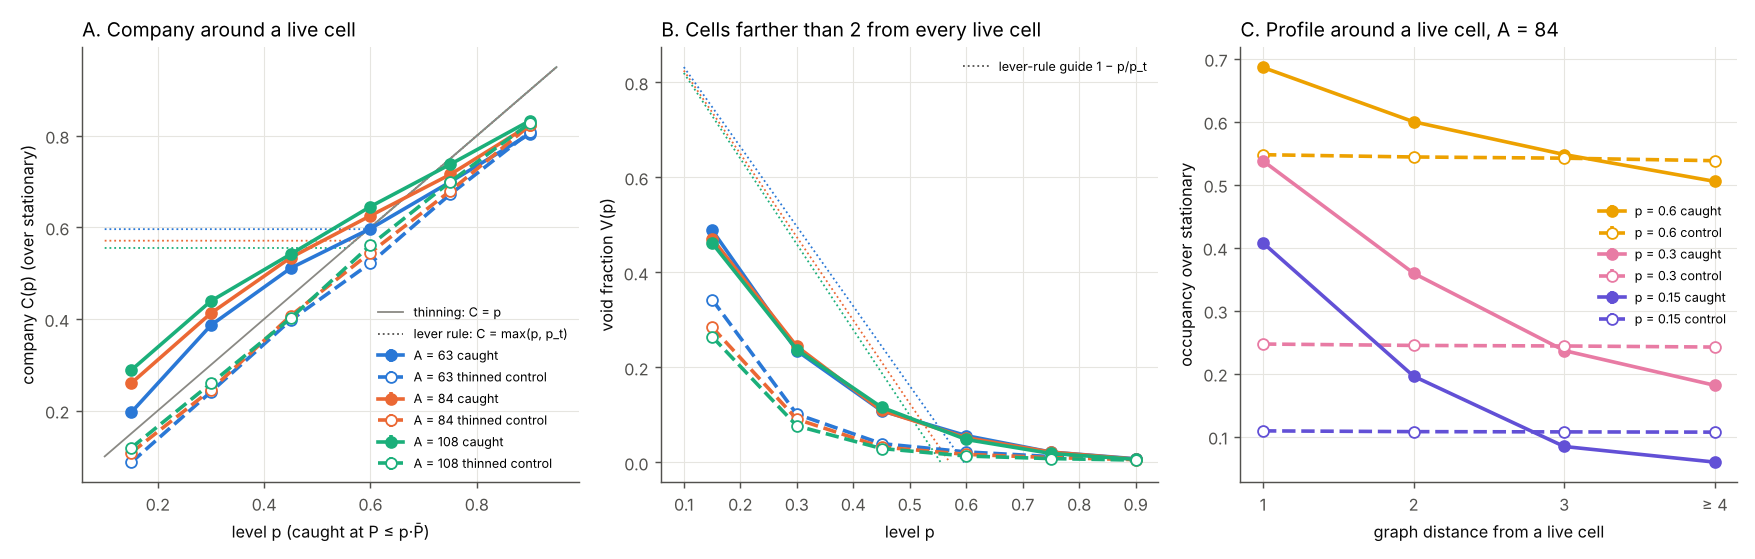
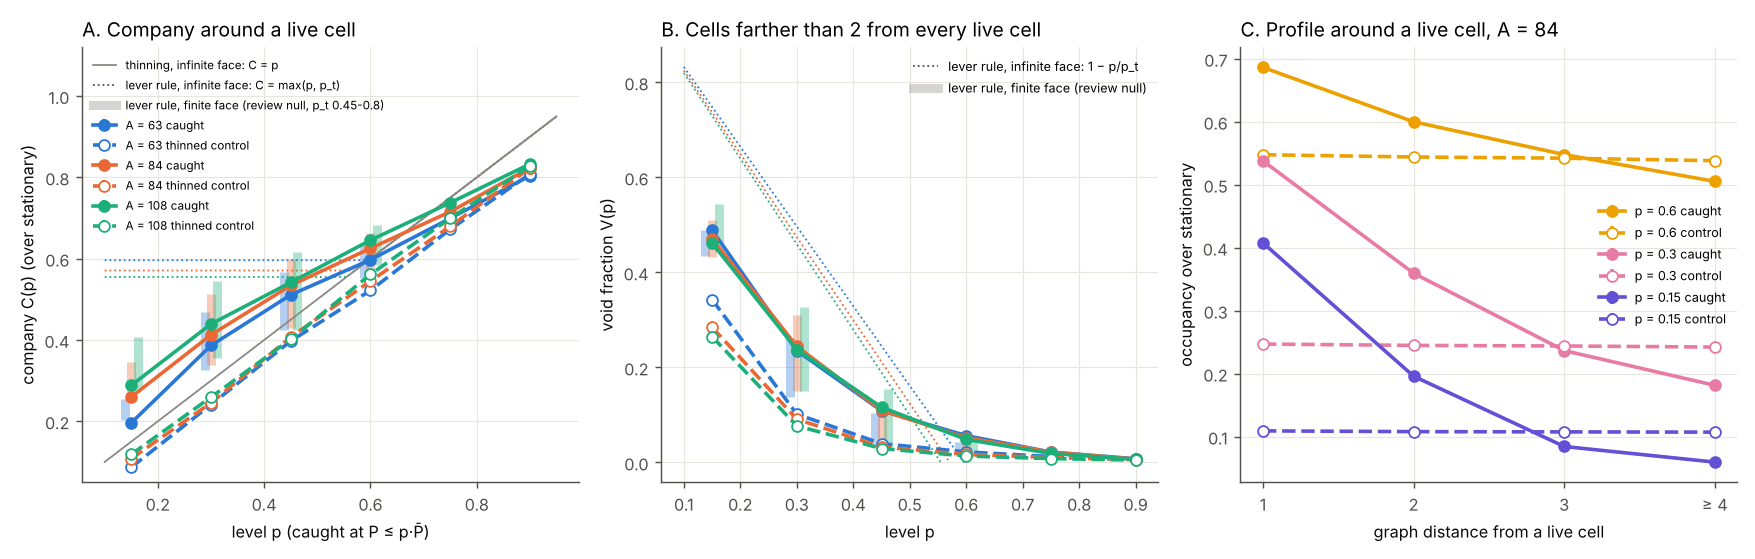
dying round 4 README and figure: apply the six corrections of the round-4 review (finite-face lever null beside the C ratios and in panels A-B, inference narrowed to 'no plateau seen; C cannot test the lever rule at A <= 108', F1/F2/F6 caveats, count-matched dies/recovers gap, size trend against the
Claude-Session: https://claude.ai/code/session_019L788JanYoS8q1kKh6fDt6

diff --git a/research/dying/round4_figure.py b/research/dying/round4_figure.py
@@ -3,10 +3,12 @@
 
     python3 research/dying/round4_figure.py
 
-A: C(p) against p, caught (filled, solid) and random-thinning control (open, dashed), per size; the two readings:
-   thinning C = p (grey diagonal) and the lever rule C = p above p_t, C = p_t below (per size, p_t from the tangent
-   construction, thin dotted). B: V(p), same marks; the lever-rule guide 1 - p/p_t below p_t (dotted; an ideal
-   remnant with no boundary layer, an upper guide only). C: the shell profile C_d (d = graph distance 1, 2, 3, >= 4)
+A: C(p) against p, caught (filled, solid) and random-thinning control (open, dashed), per size; the two readings
+   on an infinite face: thinning C = p (grey diagonal) and the lever rule C = max(p, p_t) (thin dotted, p_t from the
+   tangent construction). B: V(p), same marks; the infinite-face lever guide 1 - p/p_t (dotted).
+   Added 2026-11-15 after the review: the finite-face lever-rule null of research/audit/dying4/null_r1{1,3,5}.txt
+   (a compact patch at fixed relative density p_t, nothing outside, at the fixed count k = floor(p P-bar)), drawn as
+   a vertical bar spanning p_t = 0.45-0.8 at each level, in the size's colour, slightly offset; read only, not rerun. C: the shell profile C_d (d = graph distance 1, 2, 3, >= 4)
    at A = 84 for p = 0.6, 0.3, 0.15, caught against control.
 """
 import os, csv, collections
@@ -18,6 +20,21 @@ rows = list(csv.DictReader(open(os.path.join(D, 'r4_company.csv'))))
 tan = {int(r['A']): float(r['p_t']) for r in csv.DictReader(open(os.path.join(D, 'r4_tangent.csv')))}
 COL = {63: '#2a78d6', 84: '#eb6834', 108: '#1baf7a'}
 MINF = 200
+import re
+NULL = {}      # (A, p) -> [(C, V) for p_t = 0.45, 0.55, 0.65, 0.8]
+for A, f in ((63, 'null_r11.txt'), (84, 'null_r13.txt'), (108, 'null_r15.txt')):
+    fn = os.path.join(ROOT, 'research', 'audit', 'dying4', f); cur = None; levels = None
+    for line in open(fn):
+        if line.startswith('#'):
+            levels = [float(x) for x in re.findall(r'(0\.\d+):', line)]
+        m = re.match(r'at level\s+p ([\d.]+)', line)
+        if m: cur = float(m.group(1)); continue
+        m = re.match(r'\s+null p_t ([\d.]+): C ([\d.]+) V ([\d.]+)', line)
+        if m:
+            if cur is None or (A, cur) in NULL and len(NULL[(A, cur)]) == 4:
+                # a block without its "at level" header (A = 108, p = 0.15): the next level in order
+                cur = [q for q in levels if (A, q) not in NULL][0]
+            NULL.setdefault((A, cur), []).append((float(m.group(2)), float(m.group(3))))
 sel = collections.defaultdict(list)
 for r in rows:
     if int(r['n_faces']) >= MINF: sel[(int(r['A']), r['kind'])].append(r)
@@ -30,16 +47,24 @@ for A in (63, 84, 108):
         ax[0].errorbar(p, [float(r['C']) for r in L], [2 * float(r['C_se']) for r in L], color=COL[A], ls=ls, lw=2, marker='o', ms=6, mfc=mf,
                        label=f'A = {A}' + (' caught' if kind == 'caught' else ' thinned control'))
         ax[1].errorbar(p, [float(r['V']) for r in L], [2 * float(r['V_se']) for r in L], color=COL[A], ls=ls, lw=2, marker='o', ms=6, mfc=mf)
+    off = {63: -0.012, 84: 0.0, 108: 0.012}[A]
+    for (AA, p), L in NULL.items():
+        if AA != A: continue
+        cs = [c for c, v in L]; vs = [v for c, v in L]
+        ax[0].plot([p + off] * 2, [min(cs), max(cs)], color=COL[A], lw=5, alpha=0.35, solid_capstyle='butt')
+        ax[1].plot([p + off] * 2, [min(vs), max(vs)], color=COL[A], lw=5, alpha=0.35, solid_capstyle='butt')
     pt = tan[A]
     ax[0].plot([0.1, pt, 0.95], [pt, pt, 0.95], color=COL[A], lw=1, ls=':')
     ax[1].plot([0.1, pt], [1 - 0.1 / pt, 0], color=COL[A], lw=1, ls=':')
-ax[0].plot([0.1, 0.95], [0.1, 0.95], color='#8a8984', lw=1, label='thinning: C = p')
-ax[0].plot([], [], color='#52514e', lw=1, ls=':', label='lever rule: C = max(p, p_t)')
+ax[0].plot([0.1, 0.95], [0.1, 0.95], color='#8a8984', lw=1, label='thinning, infinite face: C = p')
+ax[0].plot([], [], color='#52514e', lw=1, ls=':', label='lever rule, infinite face: C = max(p, p_t)')
+ax[0].plot([], [], color='#8a8984', lw=5, alpha=0.35, label='lever rule, finite face (review null, p_t 0.45-0.8)')
 ax[0].set_xlabel('level p (caught at P ≤ p·P̄)'); ax[0].set_ylabel('company C(p) (over stationary)')
-ax[0].set_title('A. Company around a live cell', loc='left'); ax[0].legend(fontsize=7, frameon=False)
+ax[0].set_title('A. Company around a live cell', loc='left'); ax[0].legend(fontsize=6.5, frameon=False, loc='upper left'); ax[0].set_ylim(0.05, 1.12)
 ax[1].set_xlabel('level p'); ax[1].set_ylabel('void fraction V(p)')
 ax[1].set_title('B. Cells farther than 2 from every live cell', loc='left')
-ax[1].plot([], [], color='#52514e', lw=1, ls=':', label='lever-rule guide 1 − p/p_t'); ax[1].legend(fontsize=7, frameon=False)
+ax[1].plot([], [], color='#52514e', lw=1, ls=':', label='lever rule, infinite face: 1 − p/p_t')
+ax[1].plot([], [], color='#8a8984', lw=5, alpha=0.35, label='lever rule, finite face (review null)'); ax[1].legend(fontsize=7, frameon=False)
 sh = ['C_d1', 'C_d2', 'C_d3', 'C_d4p']
 for p, c in ((0.6, '#eda100'), (0.3, '#e87ba4'), (0.15, '#6250d6')):
     for kind, ls, mf in (('caught', '-', c), ('control', '--', 'white')):
@@ -55,3 +80,4 @@ for a in ax:
     a.grid(color='#e6e5e0', lw=0.6); a.spines['top'].set_visible(False); a.spines['right'].set_visible(False)
 fig.tight_layout()
 out = os.path.join(ROOT, 'research', 'figures', 'dying_two_phase.png'); fig.savefig(out, dpi=130); print(out)
+if os.environ.get("SHOWNULL"): [print(k, v) for k, v in sorted(NULL.items())]

diff --git a/research/dying/README.md b/research/dying/README.md
@@ -637,40 +637,97 @@ committed with `ex4.c`, `validate4.py` and `round4.sh` before any production run
 `research/figures/dying_two_phase.png`. Tables: `data/r4_company.csv` (every level, size and set: caught, control,
 bottom, dies, recovers), `data/r4_tangent.csv`, `data/r4_stationary.csv`, `data/r4_percell.csv`, `data/r4_by_k.csv`.
 
+## Reviewed (2026-11-15)
+
+The round-4 part of `research/audit/REVIEW-dying.md` reran the measurement with its own stepper
+(`research/audit/dying4/st4.c`, matched to `reference/oracle.py` at every generation) on fresh seeds 5101, 5103,
+5105, and built a **finite-face lever-rule null**: a compact patch (a graph ball grown until its stationary mass is
+k/p_t) filled from a stationary face and thinned to exactly k, nothing outside (`research/audit/dying4/null.py` →
+`null_r11.txt`, `null_r13.txt`, `null_r15.txt`). Command: `bash research/audit/dying4/run.sh` (one core, ~20 min).
+Every number of this round reproduces within its errors; the tangent arithmetic and the control stand. Ledger:
+CLAIMS DY13–DY15.
+
+**What the review changed, applied below** (marked "corrected 2026-11-15" where they fall):
+1. **C cannot test the lever rule on faces this small.** An exact lever-rule remnant at any p_t in 0.45–0.8 gives
+   C(0.15)/C(0.45) = 0.45–0.48 (A = 63), 0.58–0.61 (84), 0.65–0.69 (108), not ≈ 1: at 4–8 live cells the patch is
+   about the size of the radius-2 ball in which C is counted, so its live cells see the emptied face and C falls with
+   depth for a fixed-density remnant too. F1's "against" clause is met by a lever rule itself at 63 and 84 cells.
+   "Not a void beside a remnant held at fixed density" is withdrawn as a conclusion from C; what stands is "no
+   plateau at fixed density is seen". What does separate the caught faces from the null: their ratio lies
+   0.07–0.14 below it, and their profile is more peaked (higher at distance 1, with a tail into the far face).
+2. **The figure's guides** C = max(p, p_t) and V = 1 − p/p_t are infinite-face idealisations, now labelled so; the
+   review's finite-face null is drawn beside them in panels A and B (pale bars spanning p_t = 0.45–0.8, read from
+   `null_r1{1,3,5}.txt`, at the fixed count k = ⌊pP̄⌋ rather than the caught faces' counts). The caught C lies inside
+   or just below the bars; the caught V lies inside them. The null's V at p = 0.15 is 0.43–0.54, not the guide's
+   0.73–0.81.
+3. **F2 and F6.** A remnant at p_t does not read C = p_t at these counts, so F2's failure says nothing about the
+   remnant's density; F6 rested on an F1 clause that a lever rule also meets. Scores unchanged, caveats added.
+4. **Dies against recovers** is mostly count: matched, the gap is 0.021 ± 0.001 (p = 0.15) and 0.017 ± 0.003
+   (p = 0.3) at A = 63.
+5. **The size trend** of the ratio is to be read against the null's own rise, not against 1.
+6. **How a face is caught matters:** faces at first passage are looser than faces taken at a random moment with the
+   same count, by 0.03–0.04 in C at A = 63.
+
 ## Short answer
 
-- **[measured] A deeply depleted face is one thing that thins, with strong short-range clustering; it is not a void
-  beside a remnant held at fixed density.** The company C (occupancy within graph distance 2 of a live cell, over
+- **[measured] A deeply depleted face thins with strong short-range clustering; no plateau at fixed density is seen,
+  but on faces of 108 cells or fewer C cannot test the lever rule.** *Heading corrected 2026-11-15 (review); it
+  first read "it is not a void beside a remnant held at fixed density".* The company C (occupancy within graph distance 2 of a live cell, over
   stationary) falls steadily with depth at every size: at A = 108, C = 0.833, 0.738, 0.646, 0.542, 0.439, 0.288 at
-  p = 0.9 … 0.15; at A = 84, 0.534, 0.413, 0.260 at p = 0.45, 0.3, 0.15. A lever rule needs C flat below the tangent
-  point (C(0.15)/C(0.45) ≈ 1); it is 0.38, 0.49, 0.53 at A = 63, 84, 108. Even the nearest-neighbour shell, the
+  p = 0.9 … 0.15; at A = 84, 0.534, 0.413, 0.260 at p = 0.45, 0.3, 0.15. C(0.15)/C(0.45) is 0.38, 0.49, 0.53 at
+  A = 63, 84, 108. *Corrected 2026-11-15 (review). Withdrawn: "A lever rule needs C flat below the tangent point
+  (C(0.15)/C(0.45) ≈ 1)". That holds only on faces much larger than these. The review's finite-face null, a compact
+  remnant at fixed relative density p_t and nothing outside, gives 0.45–0.48, 0.58–0.61, 0.65–0.69 at A = 63, 84,
+  108 for any p_t in 0.45–0.8 (0.45 and 0.58 at 63 and 84 with the caught faces' own counts). The caught ratios lie
+  0.07, 0.10 and about 0.14 below the null, and the caught profile is more peaked than a fixed-density patch's (at
+  A = 63, k = 4: 0.449, 0.163, 0.043, 0.032 at distance 1, 2, 3, ≥ 4, against 0.330, 0.220, 0.078, 0.005 for a
+  p_t = 0.8 patch with the same C and V). So C falls a little faster with depth than a fixed-density remnant's would,
+  and the clump is peaked with a tail rather than flat; that is what separates them here, not the fall of C.* Even
+  the nearest-neighbour shell, the
   densest part of the "remnant", thins: C at distance 1 is 0.71, 0.63, 0.56, 0.43 at p = 0.6, 0.45, 0.3, 0.15
   (A = 108). The per-cell distribution of local company moves down as a whole (median 0.65, 0.54, 0.42, 0.27 at
-  p = 0.6 … 0.15, A = 108) instead of keeping its place and losing weight.
+  p = 0.6 … 0.15, A = 108) instead of keeping its place and losing weight (*note 2026-11-15: a small patch at fixed
+  density would also move it, for the same edge reason; this was not compared with the null*).
 - **[measured] But it is far from random thinning.** Against stationary faces thinned at random to the same count,
   the caught face has 1.15× (p = 0.6), 1.35× (0.45), 1.69× (0.3) and 2.43× (0.15) the company (A = 108), three times
   the void at p = 0.3 (V = 0.238 against 0.077), fewer and larger groups (2.3 groups with 77% of the cells in the
   largest, against 3.3 and 66%), and a company profile that falls with distance (at p = 0.3: 0.56, 0.39, 0.27, 0.21
   at graph distance 1, 2, 3, ≥ 4) where the control is flat (0.26). At p = 0.9 caught and control are the same
-  (0.833 and 0.828): the clustering builds up from about 0.75 down.
+  (0.833 and 0.828): the clustering builds up from about 0.75 down. (*Note 2026-11-15, review: a falling profile
+  separates the face from random thinning only; a lever-rule remnant's profile falls too.*)
 - **[measured] The excess grows with size at fixed p, the reverse of F5.** C(0.3) = 0.387, 0.413, 0.439 and
   C(0.15) = 0.196, 0.260, 0.288 at A = 63, 84, 108. At a fixed number of live cells instead, C is *lower* on the
   larger face (7–9 live cells caught at p = 0.3: 0.393, 0.321, 0.261), so C follows the face's relative population,
-  not the patch's cell count.
+  not the patch's cell count. *Corrected 2026-11-15 (review): the rise of the ratio C(0.15)/C(0.45), 0.38 → 0.49 →
+  0.53, is to be read against the finite-face null's own rise, 0.45 → 0.58 → 0.67, not against 1; against the null
+  the caught ratio trails by a roughly constant 0.07–0.14.*
 - **[conjectured]** The data fit a correlated thinning: a face loses cells everywhere but faster far from where its
   survivors are, so the live cells keep about two graph steps of mutual company while the face as a whole empties.
-  Whether C(0.15)/C(0.45), rising 0.38 → 0.49 → 0.53 with size, would reach the lever rule's ≈ 1 on much larger
-  faces is open; on these sizes it is far from it, and the tangent point is not the remnant's density (F2).
+  *Corrected 2026-11-15 (review). Withdrawn: "on these sizes it is far from [≈ 1], and the tangent point is not the
+  remnant's density (F2)". The reference is the null, not 1, and C does not measure a remnant's density at these
+  counts (a p_t = 0.55 remnant reads C ≈ 0.41 at k = 16 and about 0.33 at k = 8, A = 108). On C and V together the
+  review's random-moment faces are fitted by a lever-rule remnant at an effective p_t ≈ 0.7–0.8 at every depth; only
+  the peaked profile tells them apart. Faces larger than 108 cells would be needed for C to test a plateau.*
 - **[measured] The tangent construction, from this round's own dip table, threshold-free:** g = 0.3081, 0.3043,
   0.3022; s = 0.2489, 0.2611, 0.2689 per site (0.501, 0.516, 0.527 per live cell); p_t = 0.596, 0.571, 0.555; end
   point g(1 − p_t²) = 0.1955, 0.2020, 0.2061 per site at A = 63, 84, 108, against the true end point
   [ln τ + ln ν(0.9)]/A = 0.1786, 0.1877, 0.1934 from this round's own lifetimes. The construction overshoots the
-  true end point by 0.017, 0.014, 0.013 per site (1.06, 1.20, 1.37 nats): it is the review's K ≈ 2 again, and the
-  remnant density it implies (0.55–0.60) is not seen (the company over p ≤ 0.3 is 0.29, 0.34, 0.36).
+  true end point by 0.017, 0.014, 0.013 per site (1.06, 1.20, 1.37 nats): it is the review's K ≈ 2 again (review,
+  2026-11-15: the straight tail alone already overshoots by 0.46–0.53 nats). *Corrected 2026-11-15 (review).
+  Withdrawn: "the remnant density it implies (0.55–0.60) is not seen (the company over p ≤ 0.3 is 0.29, 0.34,
+  0.36)": a remnant at that density would not read C = p_t at these counts.*
 - **[measured] Dying faces are looser than recovering ones at the same level.** At A = 63, p = 0.15: C = 0.152 ±
   0.001 for the 28,552 caught faces that go on to die against 0.204 for the 132,174 that recover (A = 84: 0.203 ±
   0.004 against 0.263; p = 0.3, A = 63: 0.321 against 0.387). Part of this is count (the dying faces have fewer live
-  cells at the catch: 2.97 against 3.61), which this comparison does not remove.
+  cells at the catch: 2.97 against 3.61), which this comparison does not remove. *Corrected 2026-11-15 (review,
+  `research/audit/dying4/dies_out.txt`): matched in count (k ≥ 2, weights the dying faces'), at A = 63 the gap is
+  0.145 against 0.166 at p = 0.15 (difference 0.021 ± 0.001) and 0.303 against 0.320 at p = 0.3 (0.017 ± 0.003).
+  Most (60–75%) of the unmatched gap is count; the direction stands at every single k. At equal k the dying face's
+  void is smaller: its survivors are more spread out.*
+- **[measured, review] How the face is caught matters.** *Added 2026-11-15 from the review:* faces taken at a
+  random moment with P equal to the level (time-weighted) are more clustered than faces at first passage with the
+  same count, by 0.03–0.04 in C at A = 63 (k = 14, 9, 4: 0.576, 0.457, 0.253 against 0.538, 0.413, 0.219). A first
+  passage catches a face mid-fall. Every number of this round is at first passage, as registered.
 
 ## Forecasts, scored
 
@@ -679,12 +736,12 @@ Scored as registered, on the normalised C (definitions note). Errors are bootstr
 
 | | said | found [measured] | |
 |---|---|---|---|
-| F1 (65%) | C(0.15), C(0.3), C(0.45) within 15% of their mean (A = 84); C(0.3), C(0.45) within 15% (A = 108) | A = 84: 0.2598 ± 0.0008, 0.4127 ± 0.0003, 0.5341 ± 0.0002, max deviation 35%. A = 108: 0.4393 ± 0.0004, 0.5416 ± 0.0002, apart by 21% (with 0.15: 0.288 ± 0.005, 32%). Against clause C(0.15)/C(0.45) < 0.6 met: 0.486 ± 0.002 (84), 0.532 ± 0.009 (108), 0.384 (63) | **failed**, by the "against" clause |
-| F2 (50%) | mean C over p ≤ 0.3 at A = 108 in 0.47–0.63 | levels 0.3, 0.15: 0.364 ± 0.003 | **failed** |
+| F1 (65%) | C(0.15), C(0.3), C(0.45) within 15% of their mean (A = 84); C(0.3), C(0.45) within 15% (A = 108) | A = 84: 0.2598 ± 0.0008, 0.4127 ± 0.0003, 0.5341 ± 0.0002, max deviation 35%. A = 108: 0.4393 ± 0.0004, 0.5416 ± 0.0002, apart by 21% (with 0.15: 0.288 ± 0.005, 32%). Against clause C(0.15)/C(0.45) < 0.6 met: 0.486 ± 0.002 (84), 0.532 ± 0.009 (108), 0.384 (63) | **failed**, by the "against" clause. *Caveat 2026-11-15 (review): an exact lever rule on faces this small also fails F1 and meets "against" (null 0.45–0.48, 0.58–0.61, 0.65–0.69); the failure is not evidence against the two-phase reading* |
+| F2 (50%) | mean C over p ≤ 0.3 at A = 108 in 0.47–0.63 | levels 0.3, 0.15: 0.364 ± 0.003 | **failed**. *Caveat 2026-11-15 (review): a remnant at p_t does not read C = p_t at these counts (p_t = 0.55 reads C ≈ 0.41 at k = 16, about 0.33 at k = 8), so this failure says nothing about the remnant's density* |
 | F3 (55%) | at A = 108: |C(0.9) − 0.9| ≤ 0.08, |C(0.75) − 0.75| ≤ 0.08, C(0.3) − 0.3 ≥ 0.2 | −0.067, −0.012, +0.139 (± < 0.001); raw form −0.069, −0.013 | **failed** (third clause); C(p) − p grows from 0.6 down: +0.046, +0.092, +0.139, +0.138 |
 | F4 (55%) | V(0.9), V(0.75) < 0.05; [V(0.15) − V(0.3)] within 30% of [V(0.3) − V(0.45)]; control V(0.45) < half the caught | V = 0.0066, 0.0190 (held); ratio 1.85 ± 0.04 (failed; A = 84: 1.68, A = 63: 2.01); control/caught at 0.45 = 0.25 (held) | **failed** (the void grows faster than linearly in p) |
 | F5 (50%) | mean C over p ≤ 0.3 at A = 63 exceeds A = 108's by 0.03–0.12 | 0.291 against 0.364: −0.073 ± 0.003 | **failed** (the other sign) |
-| F6 | ends the reading if F1 fails by "against" and V(0.3) ≤ 1.5 × control | F1's "against" met at every size; V(0.3)/control = 2.31, 2.68, 3.08 at A = 63, 84, 108 | **not met**: the face is not a mixture, and not a uniform thinning either |
+| F6 | ends the reading if F1 fails by "against" and V(0.3) ≤ 1.5 × control | F1's "against" met at every size; V(0.3)/control = 2.31, 2.68, 3.08 at A = 63, 84, 108 | **not met**: the face is not a uniform thinning. *Caveat 2026-11-15 (review): F6 rested on F1's "against" clause, which an exact lever-rule remnant also meets at 63 and 84 cells (0.45–0.48, 0.58–0.61); its first half is no evidence against a mixture. The first text added "the face is not a mixture", withdrawn* |
 
 F3's first clause is close because the catch is at P ≤ ⌊0.9P̄⌋, which puts the mean count at 0.84 P̄, and C tracks the
 count: the control at the same counts gives 0.828. So C(0.9) − 0.9 = −0.067 is a property of the level, not of the
@@ -758,7 +815,9 @@ Threshold-free ln ν(0.9) = −2.382, −2.401, −2.485 (review −2.382, −2.
 - The per-cell local company (`data/r4_percell.csv`) is the observable I would put first for this question: a mixture
   keeps the distribution of local density around live cells in place and only empties it of weight; a thinning moves
   it. It moves (A = 108, median 0.83, 0.75, 0.65, 0.54, 0.42, 0.27 at p = 0.9 … 0.15; quartiles move with it). Not
-  registered; reported only.
+  registered; reported only. *Note 2026-11-15 (review): on an infinite face; at 4–24 live cells a fixed-density patch's
+  live cells sit mostly at its edge and its distribution moves too, so this needs the finite-face null beside it,
+  which was not done. The review's finite-face comparison found the profile shape, not C, to be what separates.*
 - Groups (live cells linked when within graph distance 2): from about one group at p ≥ 0.75 to 1.5–2.3 at p ≤ 0.3,
   always fewer than the control's 2.3–3.8, with the largest holding 74–85% of the cells. A depleted face is mostly one
   loose cluster with stragglers, not one compact remnant.
@@ -795,6 +854,9 @@ Threshold-free ln ν(0.9) = −2.382, −2.401, −2.485 (review −2.382, −2.
 - The graph-distance definitions do not use the in-plane geometry; the review's centroid-free radial measures were not
   recomputed here, though the d = 1 company at A = 63, p = 0.3 (0.51) is close to its 0.54 within 2.5 doubled units.
 - The registered "interior" restriction leaves 3 cells at A = 63; there it is not meaningful.
+- (Added 2026-11-15.) No null for a remnant was built in this round; the finite-face lever null is the review's
+  (one shape: a ball-shaped, uniformly occupied patch). The per-cell distribution and the group counts were not
+  compared with it.
 
 ## Against earlier rounds and the review
 
